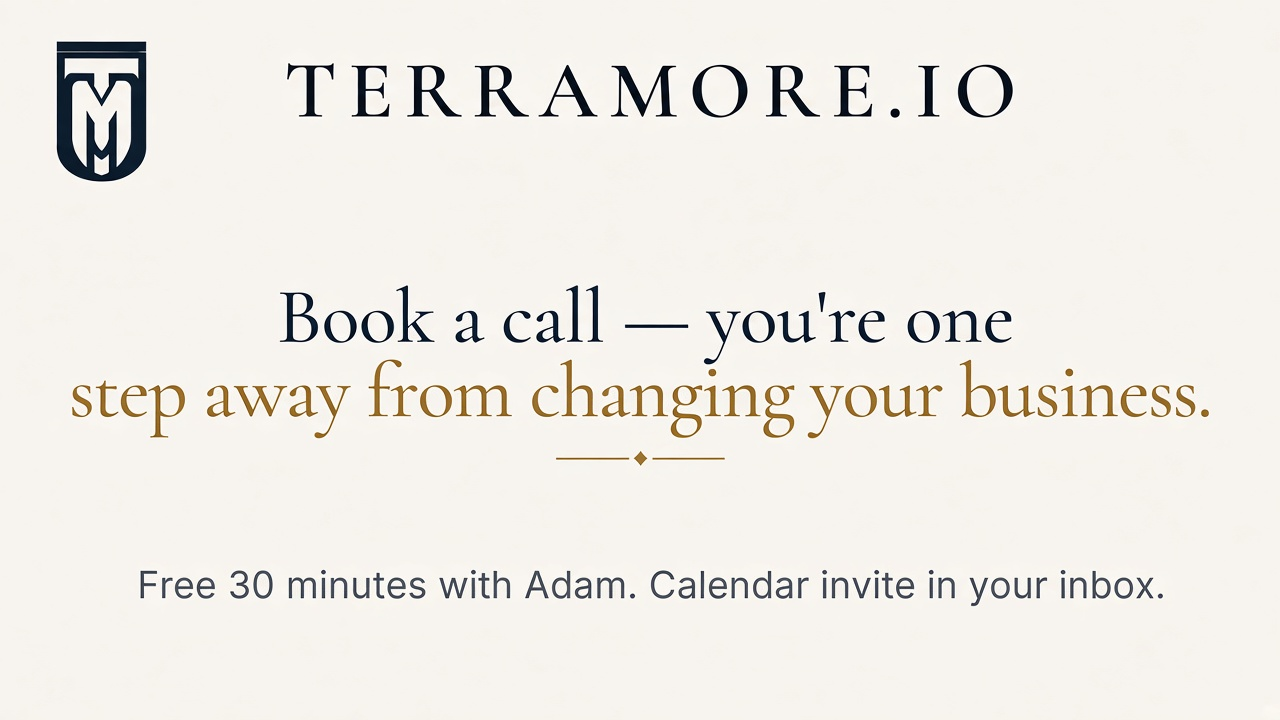
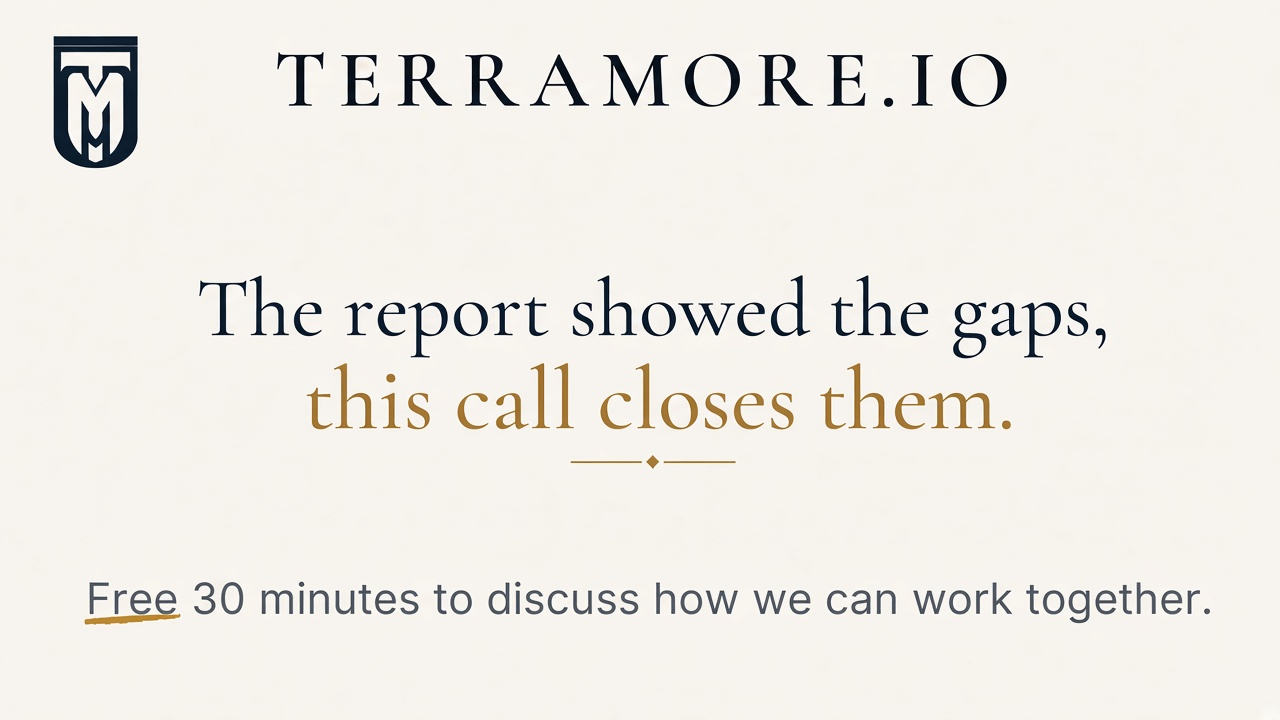
Refresh /schedule share card copy for post-report booking.
Headline is now two lines about closing report gaps; support line matches sitewide card size with gold underline on Free.

diff --git a/app/schedule/page.tsx b/app/schedule/page.tsx
@@ -7,28 +7,28 @@ import { SiteFooter } from "@/components/site-footer"
 export const metadata: Metadata = {
   title: "Book a call | Terramore",
   description:
-    "Book a call — you're one step away from changing your business. Free 30 minutes with Adam. Calendar invite in your inbox.",
+    "The report showed the gaps. This call closes them. Free 30 minutes to discuss how we can work together.",
   alternates: { canonical: "https://www.terramore.io/schedule" },
   openGraph: {
     title: "Book a call | Terramore",
-    description: "You're one step away from changing your business. Free 30 minutes — pick a time.",
+    description: "The report showed the gaps. This call closes them. Free 30 minutes to discuss how we can work together.",
     url: "https://www.terramore.io/schedule",
     siteName: "Terramore.io",
     type: "website",
     images: [
       {
-        url: "/share/terramore-share-schedule-og.png",
+        url: "/share/terramore-share-schedule-og.png?v=2",
         width: 1200,
         height: 630,
-        alt: "Book a call — you're one step away from changing your business.",
+        alt: "The report showed the gaps. This call closes them.",
       },
     ],
   },
   twitter: {
     card: "summary_large_image",
     title: "Book a call | Terramore",
-    description: "You're one step away from changing your business. Free 30 minutes — pick a time.",
-    images: ["/share/terramore-share-schedule-og.png"],
+    description: "The report showed the gaps. This call closes them. Free 30 minutes to discuss how we can work together.",
+    images: ["/share/terramore-share-schedule-og.png?v=2"],
   },
   robots: { index: false, follow: true },
 }

diff --git a/DEVELOPMENT_LOG.md b/DEVELOPMENT_LOG.md
@@ -2,7 +2,7 @@
 
 ## 2026-09-23 — `/schedule` share card (post-report booking)
 
-Dedicated OG/Twitter image for outbound calendar links: `/share/terramore-share-schedule-og.png`. Headline: “Book a call — you're one step away from changing your business.” Sub: free 30 minutes with Adam. Replaces sitewide Digital Footprint share card when the URL is `/schedule`. Metadata on `app/schedule/page.tsx` points at the new asset.
+Dedicated OG/Twitter image for outbound calendar links: `/share/terramore-share-schedule-og.png`. Headline (two lines): “The report showed the gaps,” / “this call closes them.” Sub: “Free 30 minutes to discuss how we can work together.” with gold underline on Free (same treatment as the sitewide Digital Footprint share card). Metadata on `app/schedule/page.tsx` points at the asset.
 
 ## 2026-09-21 — Calendar-first `/schedule` for outbound booking
 
